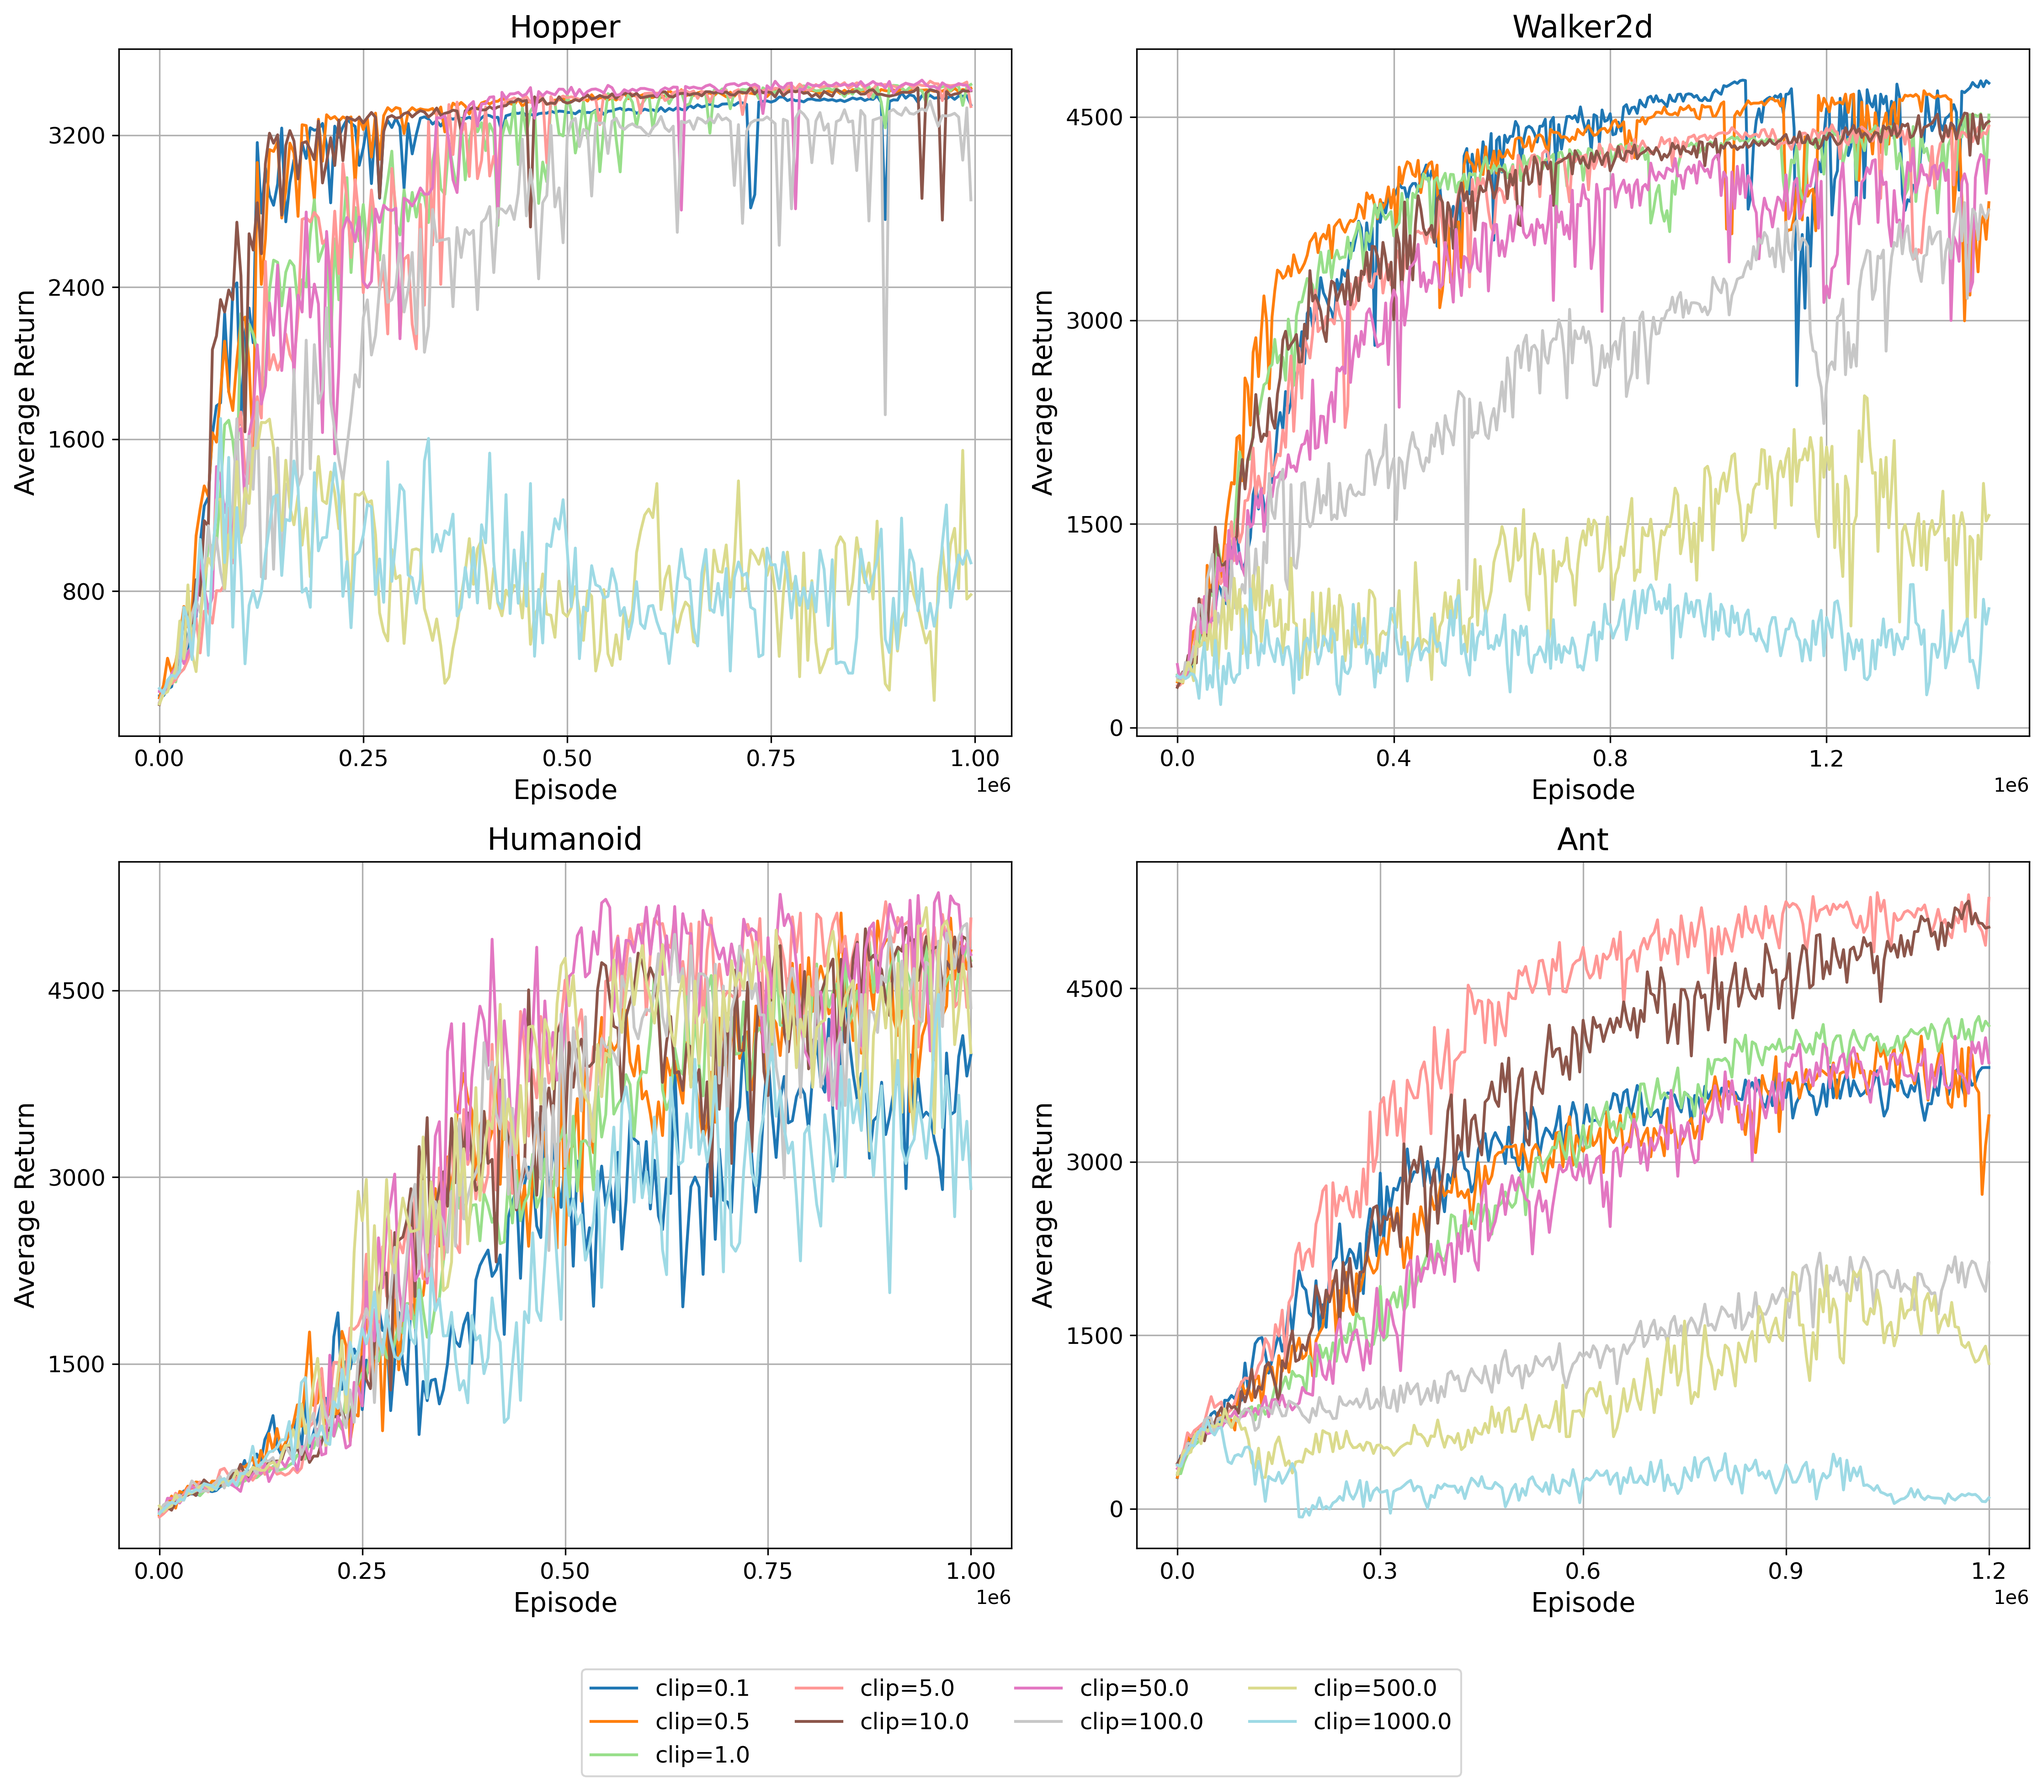
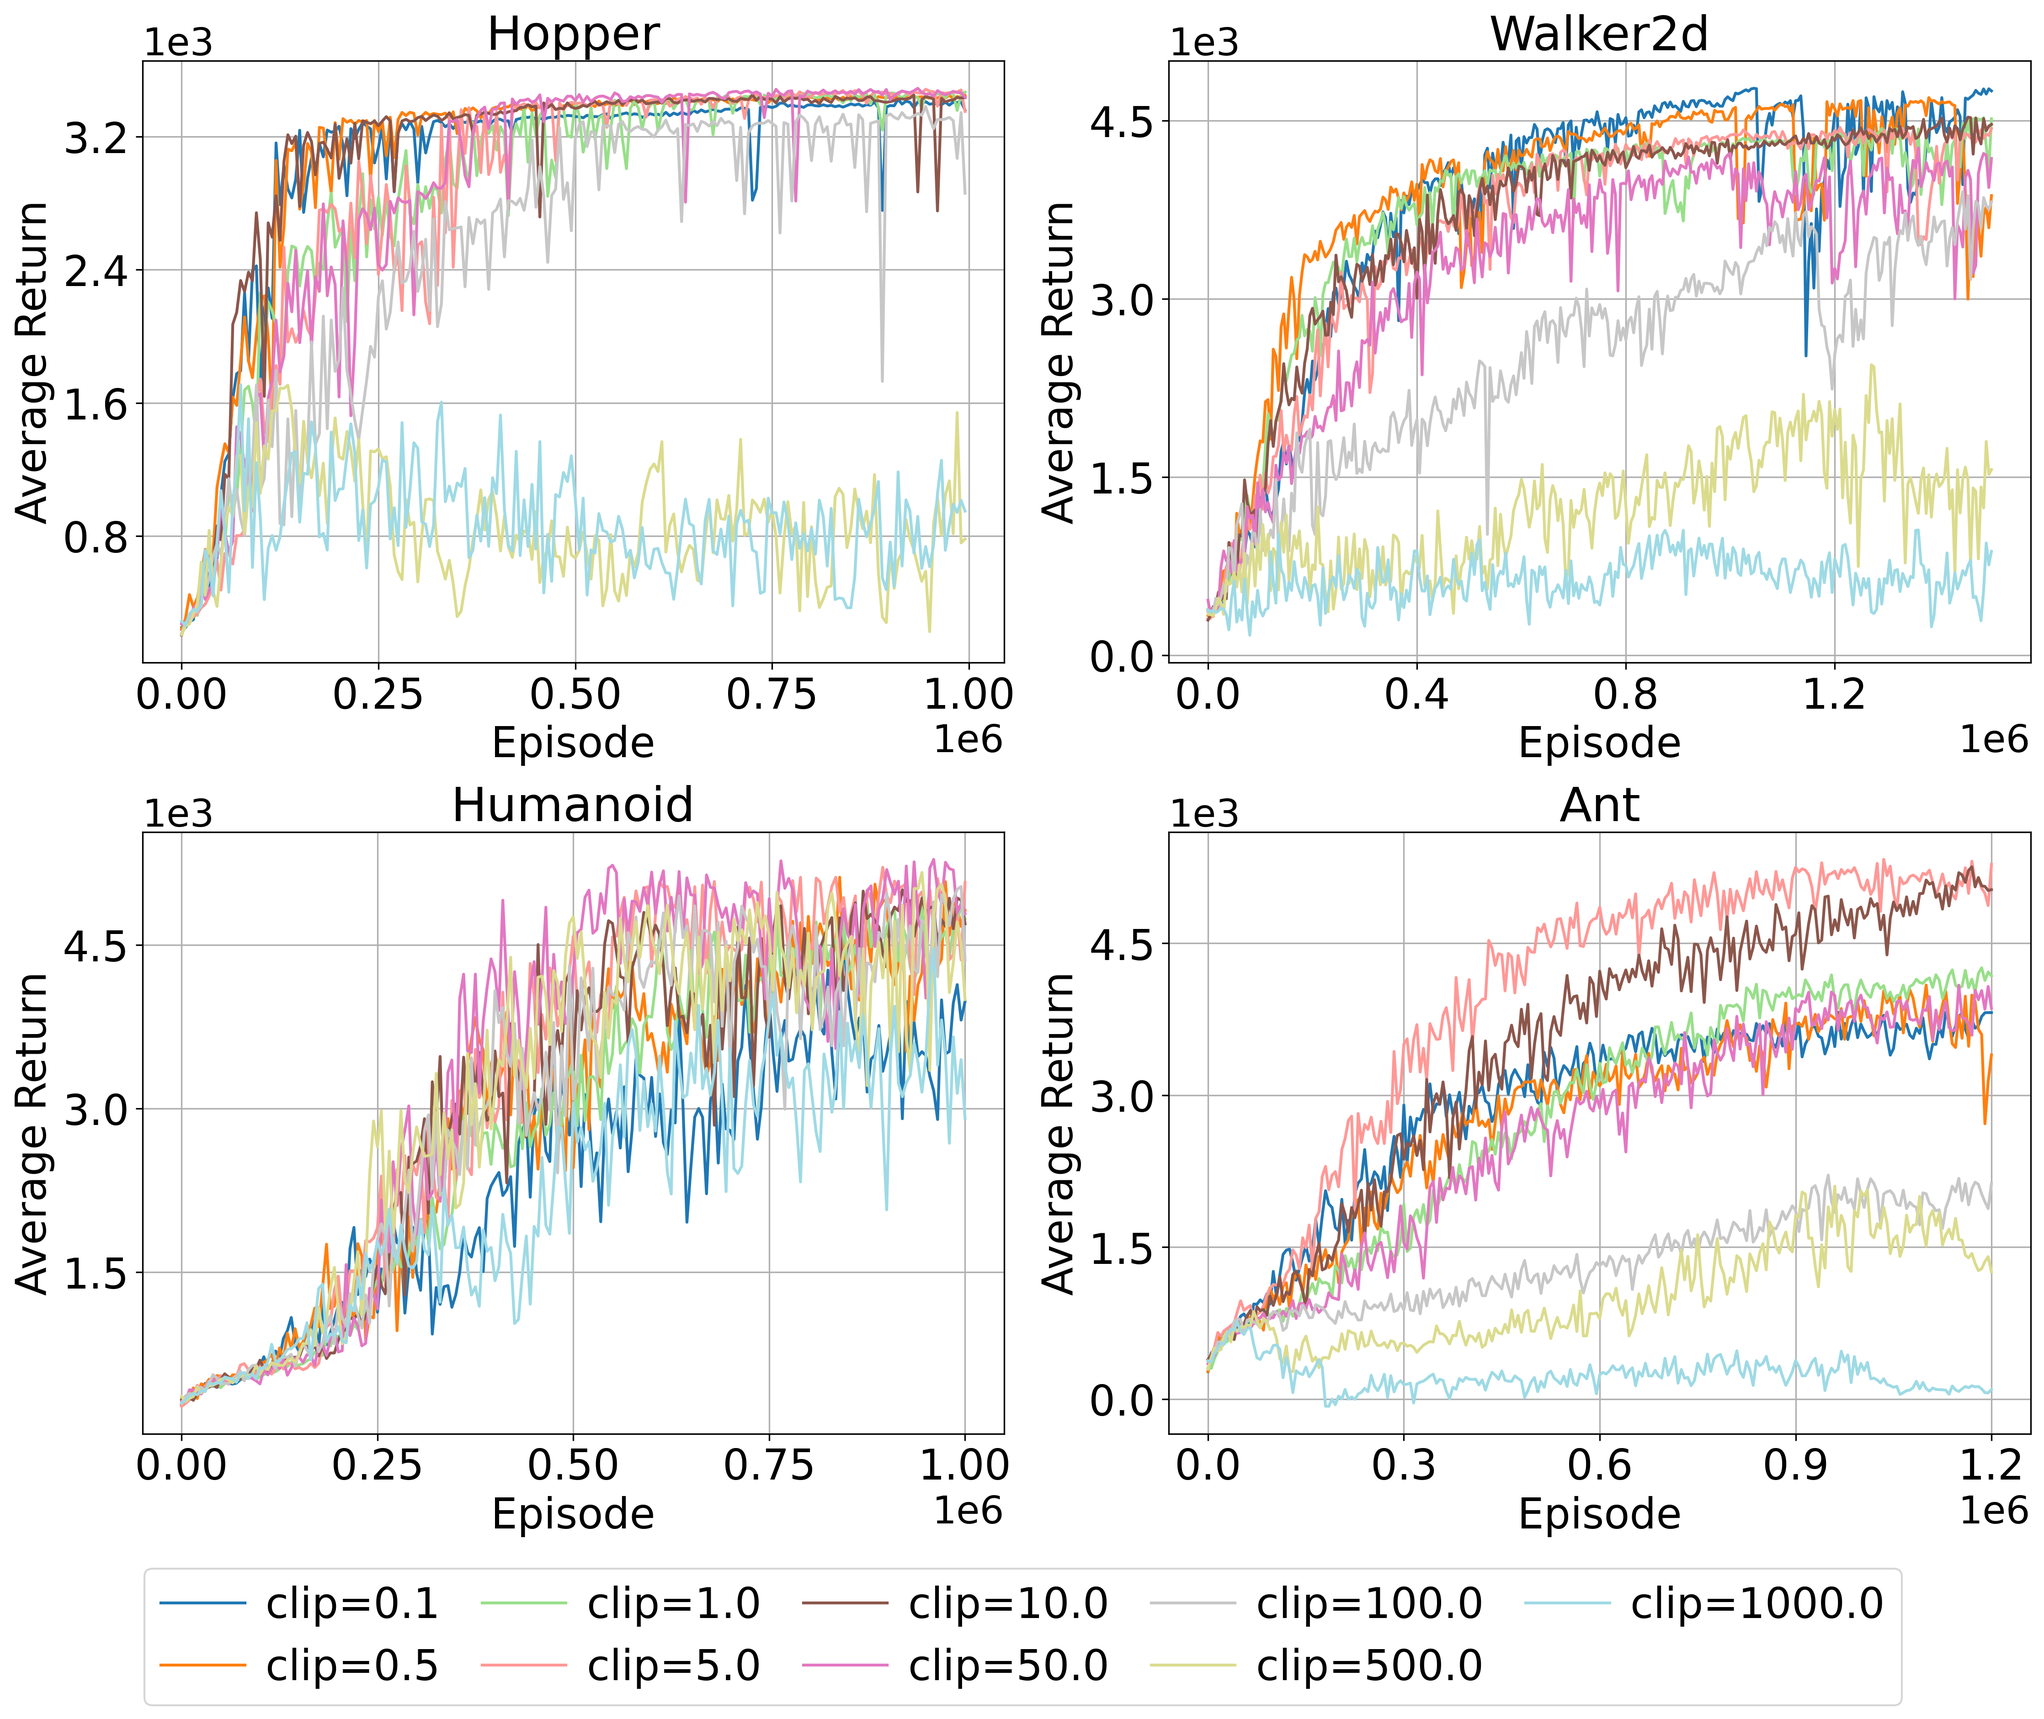
comparison plot with bigger text

diff --git a/plotting_code/plot_returns.py b/plotting_code/plot_returns.py
@@ -183,7 +183,6 @@ def plot_multiple_files(
         # Create individual plot for this file
         create_returns_plot([df], q_values, clip_values, env_name, method, show_confidence, max_episodes)
 
-
 def create_method_comparison_figure(
     folder_path: str,
     method: str,
@@ -203,11 +202,12 @@ def create_method_comparison_figure(
     axes = axes.flatten()
     
     # Set font sizes
-    TITLE_SIZE = 16
-    AXIS_LABEL_SIZE = 14
-    TICK_SIZE = 12
-    LEGEND_SIZE = 12
-    
+    TITLE_SIZE = 25
+    AXIS_LABEL_SIZE = 22
+    TICK_SIZE = 22
+    LEGEND_SIZE = 22
+    AXIS_UNIT_SIZE = 20
+
     # Dictionary to store all unique clip values found in the data
     all_clip_values = set()
     env_clip_data = {}
@@ -282,24 +282,37 @@ def create_method_comparison_figure(
         
         # Reduce tick frequency and increase font size
         ax.tick_params(axis='both', which='major', labelsize=TICK_SIZE)
-        ax.xaxis.set_major_locator(plt.MaxNLocator(5))  # Reduce number of x-ticks
-        ax.yaxis.set_major_locator(plt.MaxNLocator(5))  # Reduce number of y-ticks
+        ax.xaxis.set_major_locator(plt.MaxNLocator(5))
+        ax.yaxis.set_major_locator(plt.MaxNLocator(5))
+
+        # Increase size of scientific notation on both axes
+        ax.ticklabel_format(style='sci', axis='x', scilimits=(0,0))
+        ax.ticklabel_format(style='sci', axis='y', scilimits=(0,0))
+        
+        # Get the offset text objects for both axes and set their fontsize
+        x_offset = ax.xaxis.get_offset_text()
+        y_offset = ax.yaxis.get_offset_text()
+        x_offset.set_fontsize(AXIS_UNIT_SIZE)
+        y_offset.set_fontsize(AXIS_UNIT_SIZE)
     
     # Adjust layout first
-    plt.tight_layout(rect=[0, 0, 1, 1])  # Leave space at top for title
+    plt.tight_layout(rect=[0, 0, 1, 0.95])  # Leave more space at bottom for legend
     
-    # Add overall title with larger font - now after tight_layout
-    # fig.suptitle(f'Performance Comparison for {method.upper()}', 
-    #             fontsize=TITLE_SIZE + 2,
-    #             y=0.98)  # Move title up slightly
+    # Calculate the number of columns based on the figure width
+    legend_width = fig.get_size_inches()[0] * 0.9  # Use 90% of figure width
+    item_width = 2.5  # Approximate width of each legend item in inches
+    n_items = len(all_clip_values)
+    ncols = min(n_items, max(1, int(legend_width / item_width)))
     
-    # Add shared legend below the plots
+    # Add shared legend below the plots with calculated number of columns
     legend = fig.legend(legend_elements, 
                        [f'clip={clip}' for clip in all_clip_values],
                        loc='center',
                        bbox_to_anchor=(0.5, -0.05),
-                       ncol=4,
-                       fontsize=LEGEND_SIZE)
+                       ncol=ncols,
+                       fontsize=LEGEND_SIZE,
+                       columnspacing=1.0,
+                       handletextpad=0.5)
     
     # Save figure with extra bottom margin for legend
     save_path = Path("plots") / "method_comparisons"
@@ -310,6 +323,7 @@ def create_method_comparison_figure(
                 dpi=300,
                 bbox_extra_artists=(legend,))
     plt.close()
+
 
 # The create_all_method_comparisons function remains the same
 def create_all_method_comparisons(
